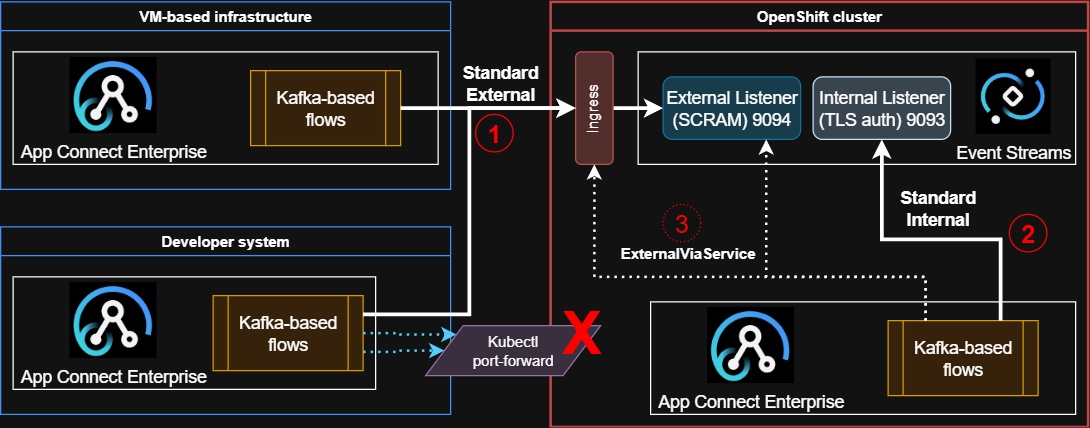
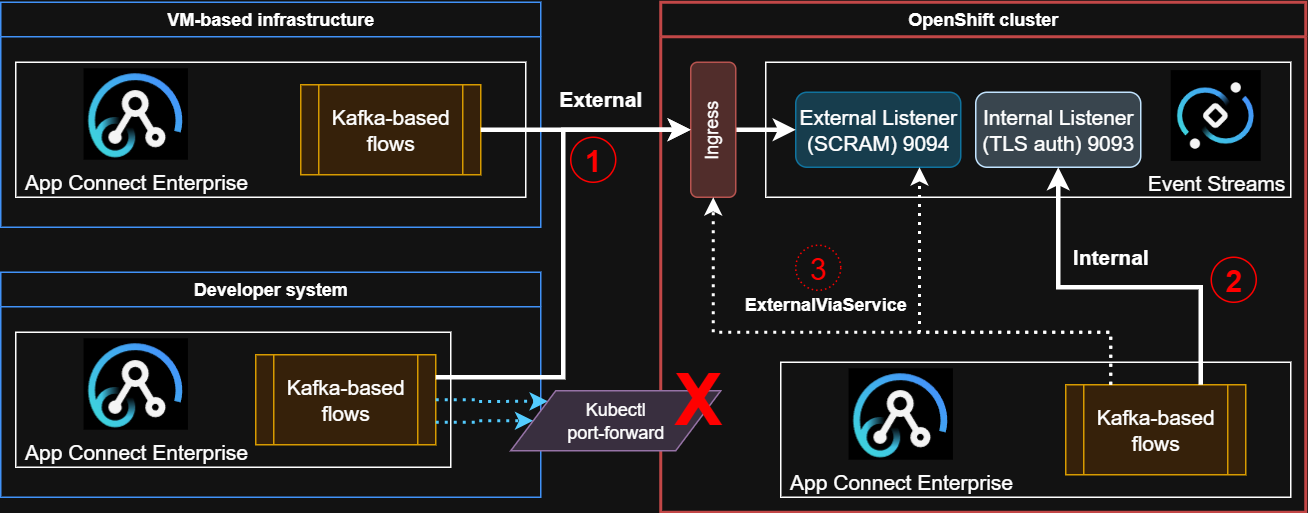
Update terminology

diff --git a/README.md b/README.md
@@ -14,9 +14,11 @@ tutorial in the ACE toolkit.
 ## Overview
 
 The CP4i examples use an Event Streams instance based on the "Development SCRAM" sample YAML 
-(see "YAML view"->"Samples" in the OpenShift UI) and many other configurations are possible. 
-The principles in this repo (how components can trust each other, ACE configuration possiblities, etc)
-should apply in general with appropriate modifications.
+(see "YAML view"->"Samples" in the OpenShift UI) and many other configurations are possible.
+In particular, the way the sample configures SCRAM and TLS listeners is not the only way: 
+TLS can be used for external authentication, SCRAM for internal, etc. The principles in this 
+repo (how components can trust each other, ACE configuration possiblities, etc) should apply 
+in general, as should the examples with appropriate modifications.
 
 For CP4i, several options exist depending on the location of the ACE runtime. This diagram is
 a simplified view (Kafka has more than one network listener while only one is shown, etc) but the
@@ -25,8 +27,8 @@ basic ideas are as follows:
 ![ace-es-light](demo-infrastructure/images/ace-and-es-cp4i.png#gh-light-mode-only)![ace-es-dark](demo-infrastructure/images/ace-and-es-cp4i-dark.png#gh-dark-mode-only)
 The primary options are
 
-1. ACE outside the cluster connecting to the external listener for Event Streams, using the OpenShift ingress Routes. This is the [External CP4i](#external-cp4i) section below.
-2. ACE inside the cluster connecting to the internal listener for Event Streams, using the OpenShift internal services. This is the [Internal CP4i](#internal-cp4i) section below.
+1. ACE outside the cluster connecting to the external listener for Event Streams, using the OpenShift ingress Routes. This is the [SCRAM External](#scram-external) section below.
+2. ACE inside the cluster connecting to the internal listener for Event Streams, using the OpenShift internal services. This is the [TLS Internal](#tls-internal) section below.
 
 The other options have drawbacks and may not behave as desired:
 
@@ -57,8 +59,8 @@ Different connect options in the diagrams above have different answers but all a
 
 |Option|Why can the server be trusted?|Why can the client be trusted?|Client artifacts needed|
 |---|---|---|---|
-|[External CP4i](#external-cp4i)|The server presents a TLS key for the correct hostname issued by a CA in the truststore provided by an ES administrator|The client sends SCRAM credentials issued by Event Streams|es-cert.p12 and SCRAM credentials|
-|[Internal CP4i](#internal-cp4i)|The server presents a TLS key for the correct hostname issued by a CA in the truststore provided by an ES administrator|The client presents a TLS key (mTLS) issued by Event Streams or provided by an ES administrator|es-cert.p12 and user.p12|
+|[SCRAM External](#scram-external)|The server presents a TLS key for the correct hostname issued by a CA in the truststore provided by an ES administrator|The client sends SCRAM credentials issued by Event Streams|es-cert.p12 and SCRAM credentials|
+|[TLS Internal](#tls-internal)|The server presents a TLS key for the correct hostname issued by a CA in the truststore provided by an ES administrator|The client presents a TLS key (mTLS) issued by Event Streams or provided by an ES administrator|es-cert.p12 and user.p12|
 |[IBM Cloud Lite Plan](#ibm-cloud-lite-plan)|The server presents a TLS key for the correct hostname issued by a globally-trusted CA (Let's Encrypt at the time of writing)|The client sends a cloud token provided by Event Streams|Cloud token|
 
 The other options mentioned above (option 3 and port forwarding) answer the "Why can the server be trusted?"
@@ -100,7 +102,7 @@ To publish a message, curl can be used as follows:
 curl -X POST --data  {"test":true} http://localhost:7800/KafkaTutorial/httpin
 ```
 
-## External CP4i
+## SCRAM External
 
 A truststore is needed to ensure the client can trust the server, and SCRAM credentials are needed to 
 ensure the server can trust the client. A list of bootstrap servers is also needed, and that can be
@@ -124,7 +126,7 @@ and are given to ACE with a command such as
 mqsisetdbparms -w /tmp/ace-kafka-es-work-dir -n kafka::kafka-credentials -u ace-kafka-es -p longPasswordString
 ```
 
-The [StandardExternal/EventStreams.policyxml](/StandardExternal/EventStreams.policyxml) file shows the 
+The [SCRAMExternal/EventStreams.policyxml](/SCRAMExternal/EventStreams.policyxml) file shows the 
 key elements of the policy that tie the solution together:
 ```
     <bootstrapServers>dev-scram-kafka-bootstrap-integration.apps.687f8d0dea2fca3eff46b2e1.am1.techzone.ibm.com:443</bootstrapServers>
@@ -142,7 +144,7 @@ Note the `securityProtocol`, `saslMechanism`, and `saslConfig` lines that are ne
 connection; these values can be found in the "Sample configuration properties" section of the 
 "Connect to this cluster" wizard and also in [Dale Lane's blog post](https://dalelane.co.uk/blog/?p=4573)
 
-## Internal CP4i
+## TLS Internal
 
 A truststore is needed to ensure the client can trust the server, and a client keystore is needed
 to ensure the server can trust the client. A list of bootstrap servers is also needed, and that can be
@@ -181,7 +183,7 @@ the password in the `user.password` file should be given to ACE with a command s
 mqsisetdbparms -w /tmp/ace-kafka-es-work-dir -n keystore::keystorePass -u dummy -p RaNdOmLeTtErS
 ```
 The other two files are ignored for this use case, and the
-[StandardInternal/EventStreams.policyxml](/StandardInternal/EventStreams.policyxml) file shows the 
+[TLSInternal/EventStreams.policyxml](/TLSInternal/EventStreams.policyxml) file shows the 
 key elements of the policy that tie the solution together:
 ```
     <bootstrapServers>dev-scram-kafka-bootstrap.integration.svc:9093</bootstrapServers>
@@ -328,7 +330,7 @@ oc --namespace integration port-forward --address 0.0.0.0 svc/port-forward-gw-gr
 oc --namespace integration port-forward --address 0.0.0.0 svc/port-forward-gw-group-pf-1-svc 9094:9092
 ```
 
-ACE connection policies are similar to the [External CP4i](#external-cp4i) scenario but in this case
+ACE connection policies are similar to the [SCRAM External](#scram-external) scenario but in this case
 the connections are made to the local end of the port forwarding tunnel. As can be seen in the
 [EventGatewayPortForward/EventStreams.policyxml](/EventGatewayPortForward/EventStreams.policyxml)
 file, the key elements of the policy that tie the solution together are as follows:

diff --git a/demo-infrastructure/README.md b/demo-infrastructure/README.md
@@ -15,8 +15,8 @@ After logging into the cluster and switching to the correct namespace, the confi
 can be created as follows:
 
 ```
-kubectl create configmap standard-external --from-file=EventStreams.policyxml=StandardExternal/EventStreams.policyxml --from-file=policy.descriptor=StandardExternal/policy.descriptor
-kubectl create configmap standard-internal --from-file=EventStreams.policyxml=StandardInternal/EventStreams.policyxml --from-file=policy.descriptor=StandardInternal/policy.descriptor
+kubectl create configmap scram-external --from-file=EventStreams.policyxml=SCRAMExternal/EventStreams.policyxml --from-file=policy.descriptor=SCRAMExternal/policy.descriptor
+kubectl create configmap tls-internal --from-file=EventStreams.policyxml=TLSInternal/EventStreams.policyxml --from-file=policy.descriptor=TLSInternal/policy.descriptor
 kubectl create configmap ibm-cloud-lite-plan --from-file=EventStreams.policyxml=IBMCloudLitePlan/EventStreams.policyxml --from-file=policy.descriptor=IBMCloudLitePlan/policy.descriptor
 kubectl create configmap external-via-service --from-file=EventStreams.policyxml=ExternalViaService/EventStreams.policyxml --from-file=policy.descriptor=ExternalViaService/policy.descriptor
 ```
@@ -35,8 +35,8 @@ Deploying the containers:
 ```
 kubectl apply -f demo-infrastructure/ace-kafka-es-external-via-service-deployment.yaml
 kubectl apply -f demo-infrastructure/ace-kafka-es-ibm-cloud-lite-plan-deployment.yaml
-kubectl apply -f demo-infrastructure/ace-kafka-es-standard-external-deployment.yaml
-kubectl apply -f demo-infrastructure/ace-kafka-es-standard-internal-deployment.yaml
+kubectl apply -f demo-infrastructure/ace-kafka-es-scram-external-deployment.yaml
+kubectl apply -f demo-infrastructure/ace-kafka-es-tls-internal-deployment.yaml
 ```
 
 Utilities:
@@ -48,8 +48,8 @@ kubectl delete secret keystore-pass
 kubectl delete secret scram-kafka-credentials 
 kubectl delete secret ibm-cloud-kafka-credentials 
 
-kubectl delete configmap standard-external
-kubectl delete configmap standard-internal
+kubectl delete configmap scram-external
+kubectl delete configmap tls-internal
 kubectl delete configmap ibm-cloud-lite-plan
 kubectl delete configmap external-via-service
 ```
